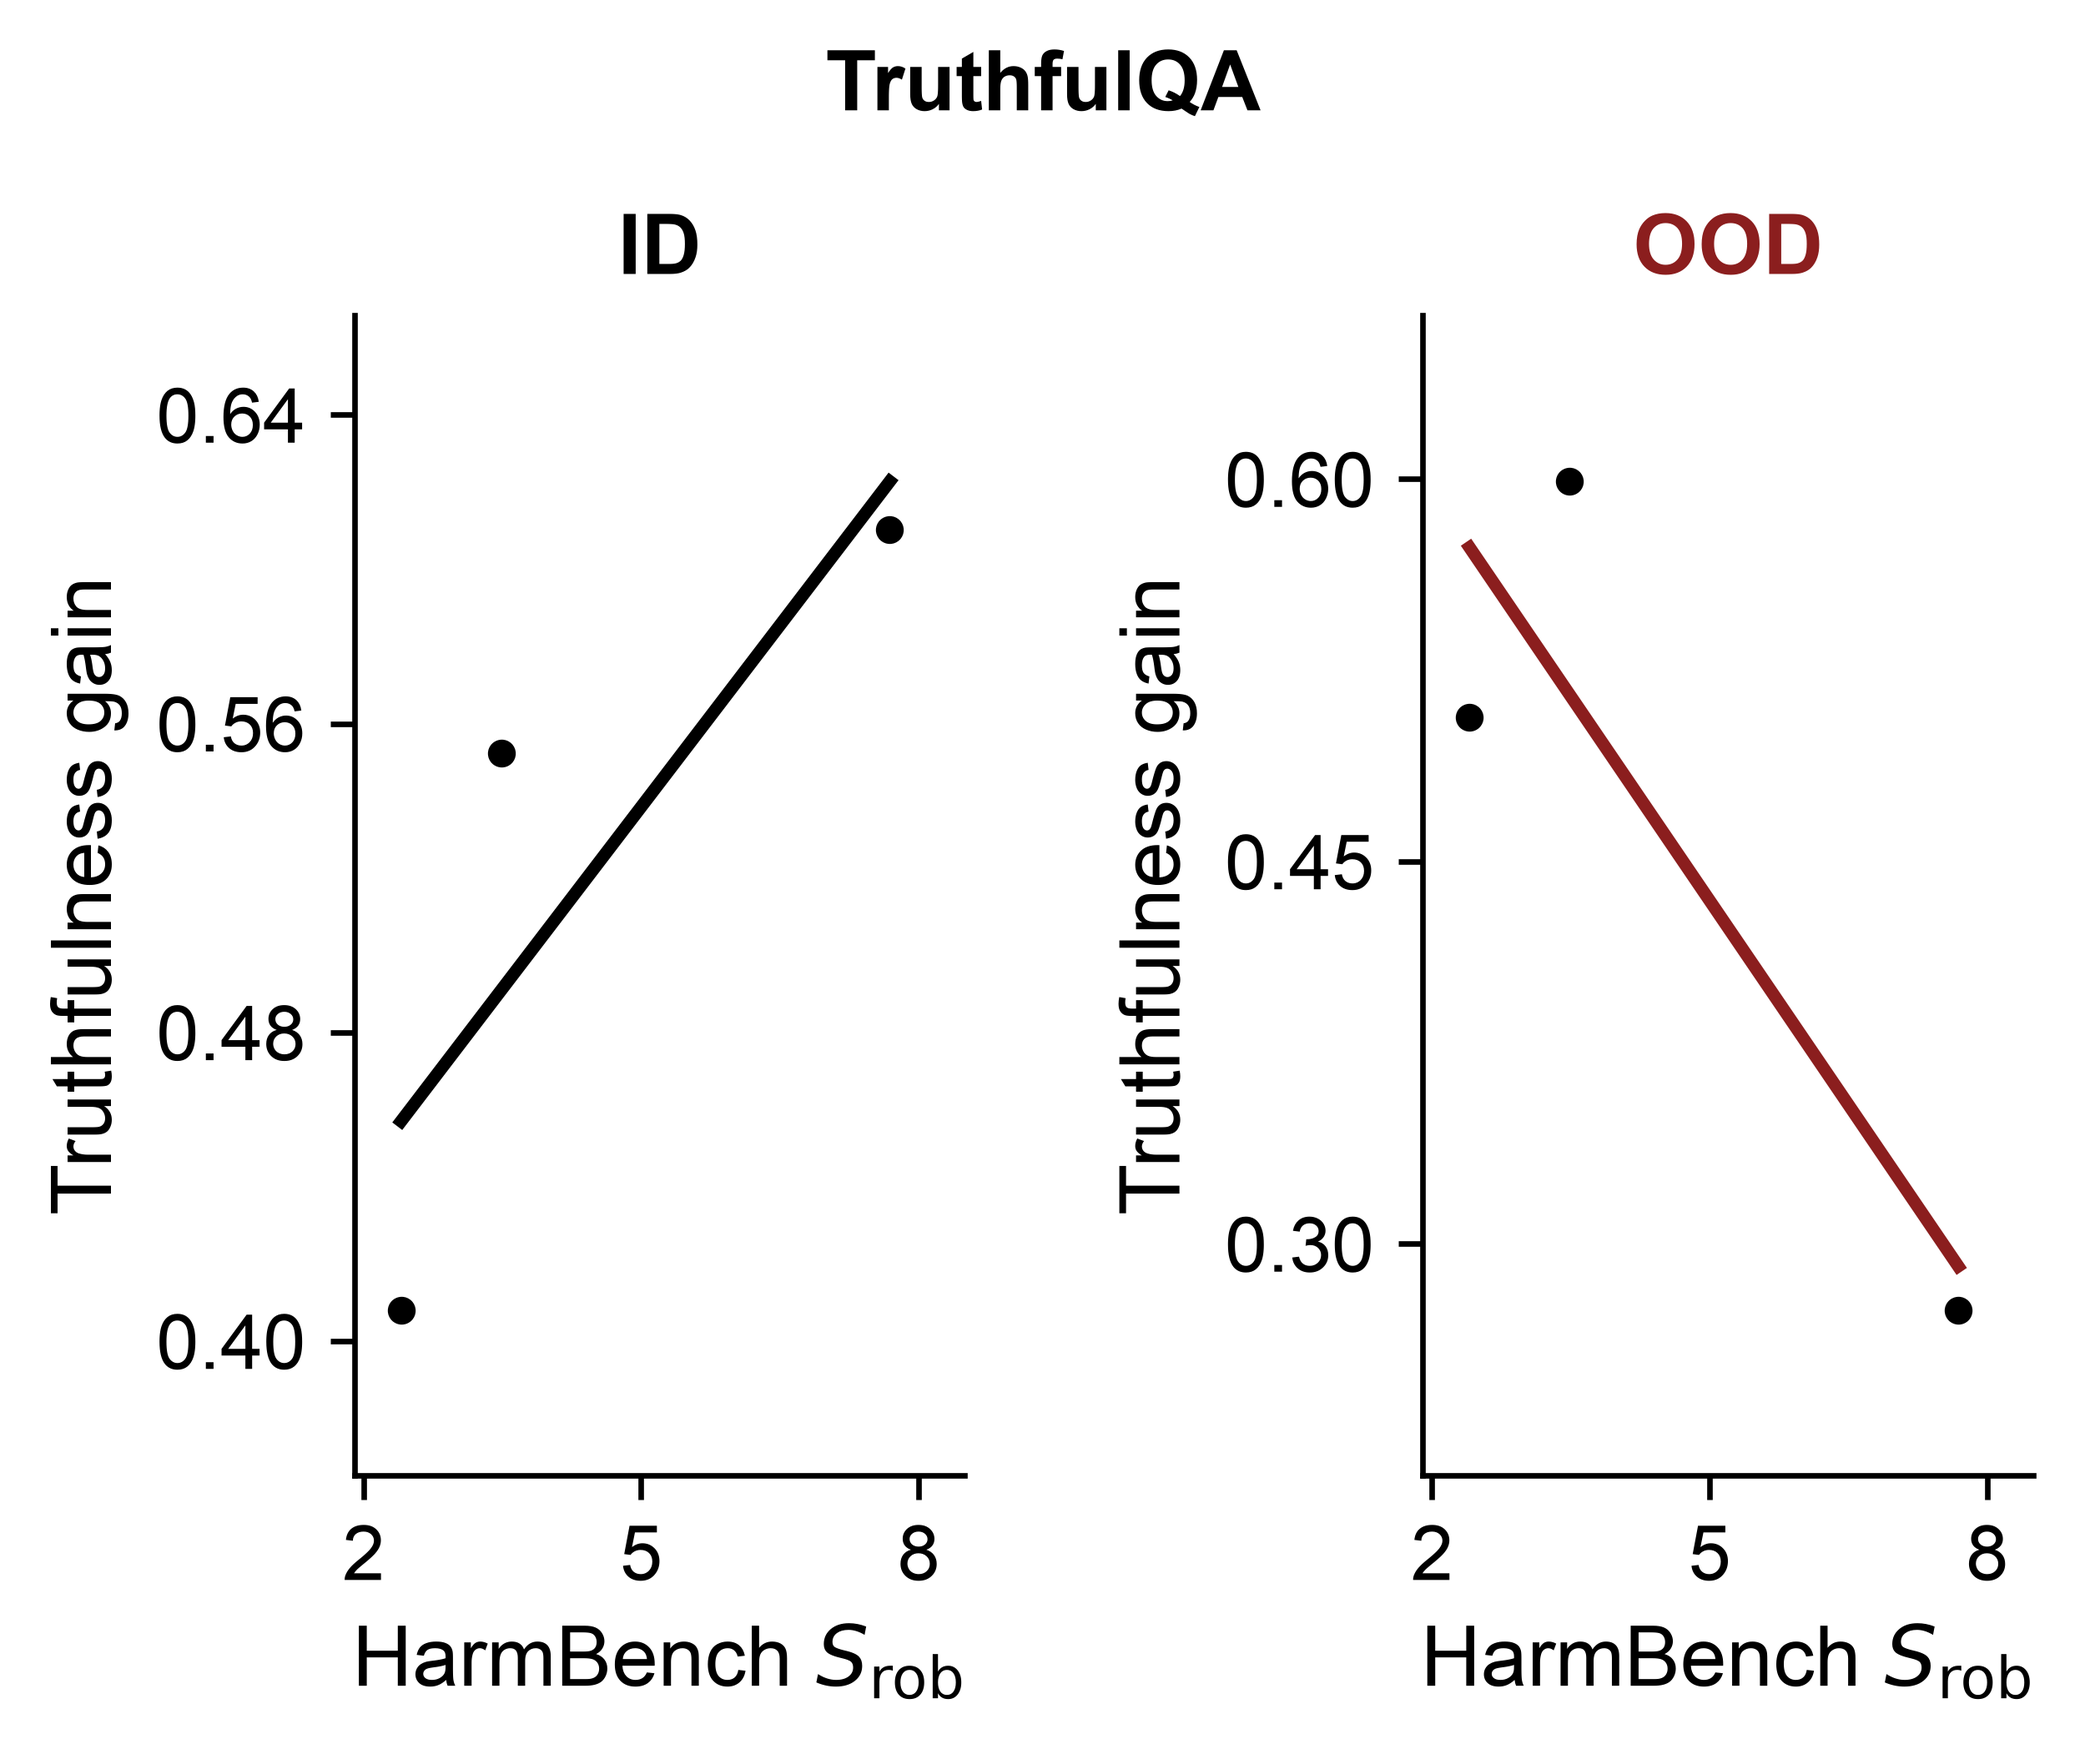
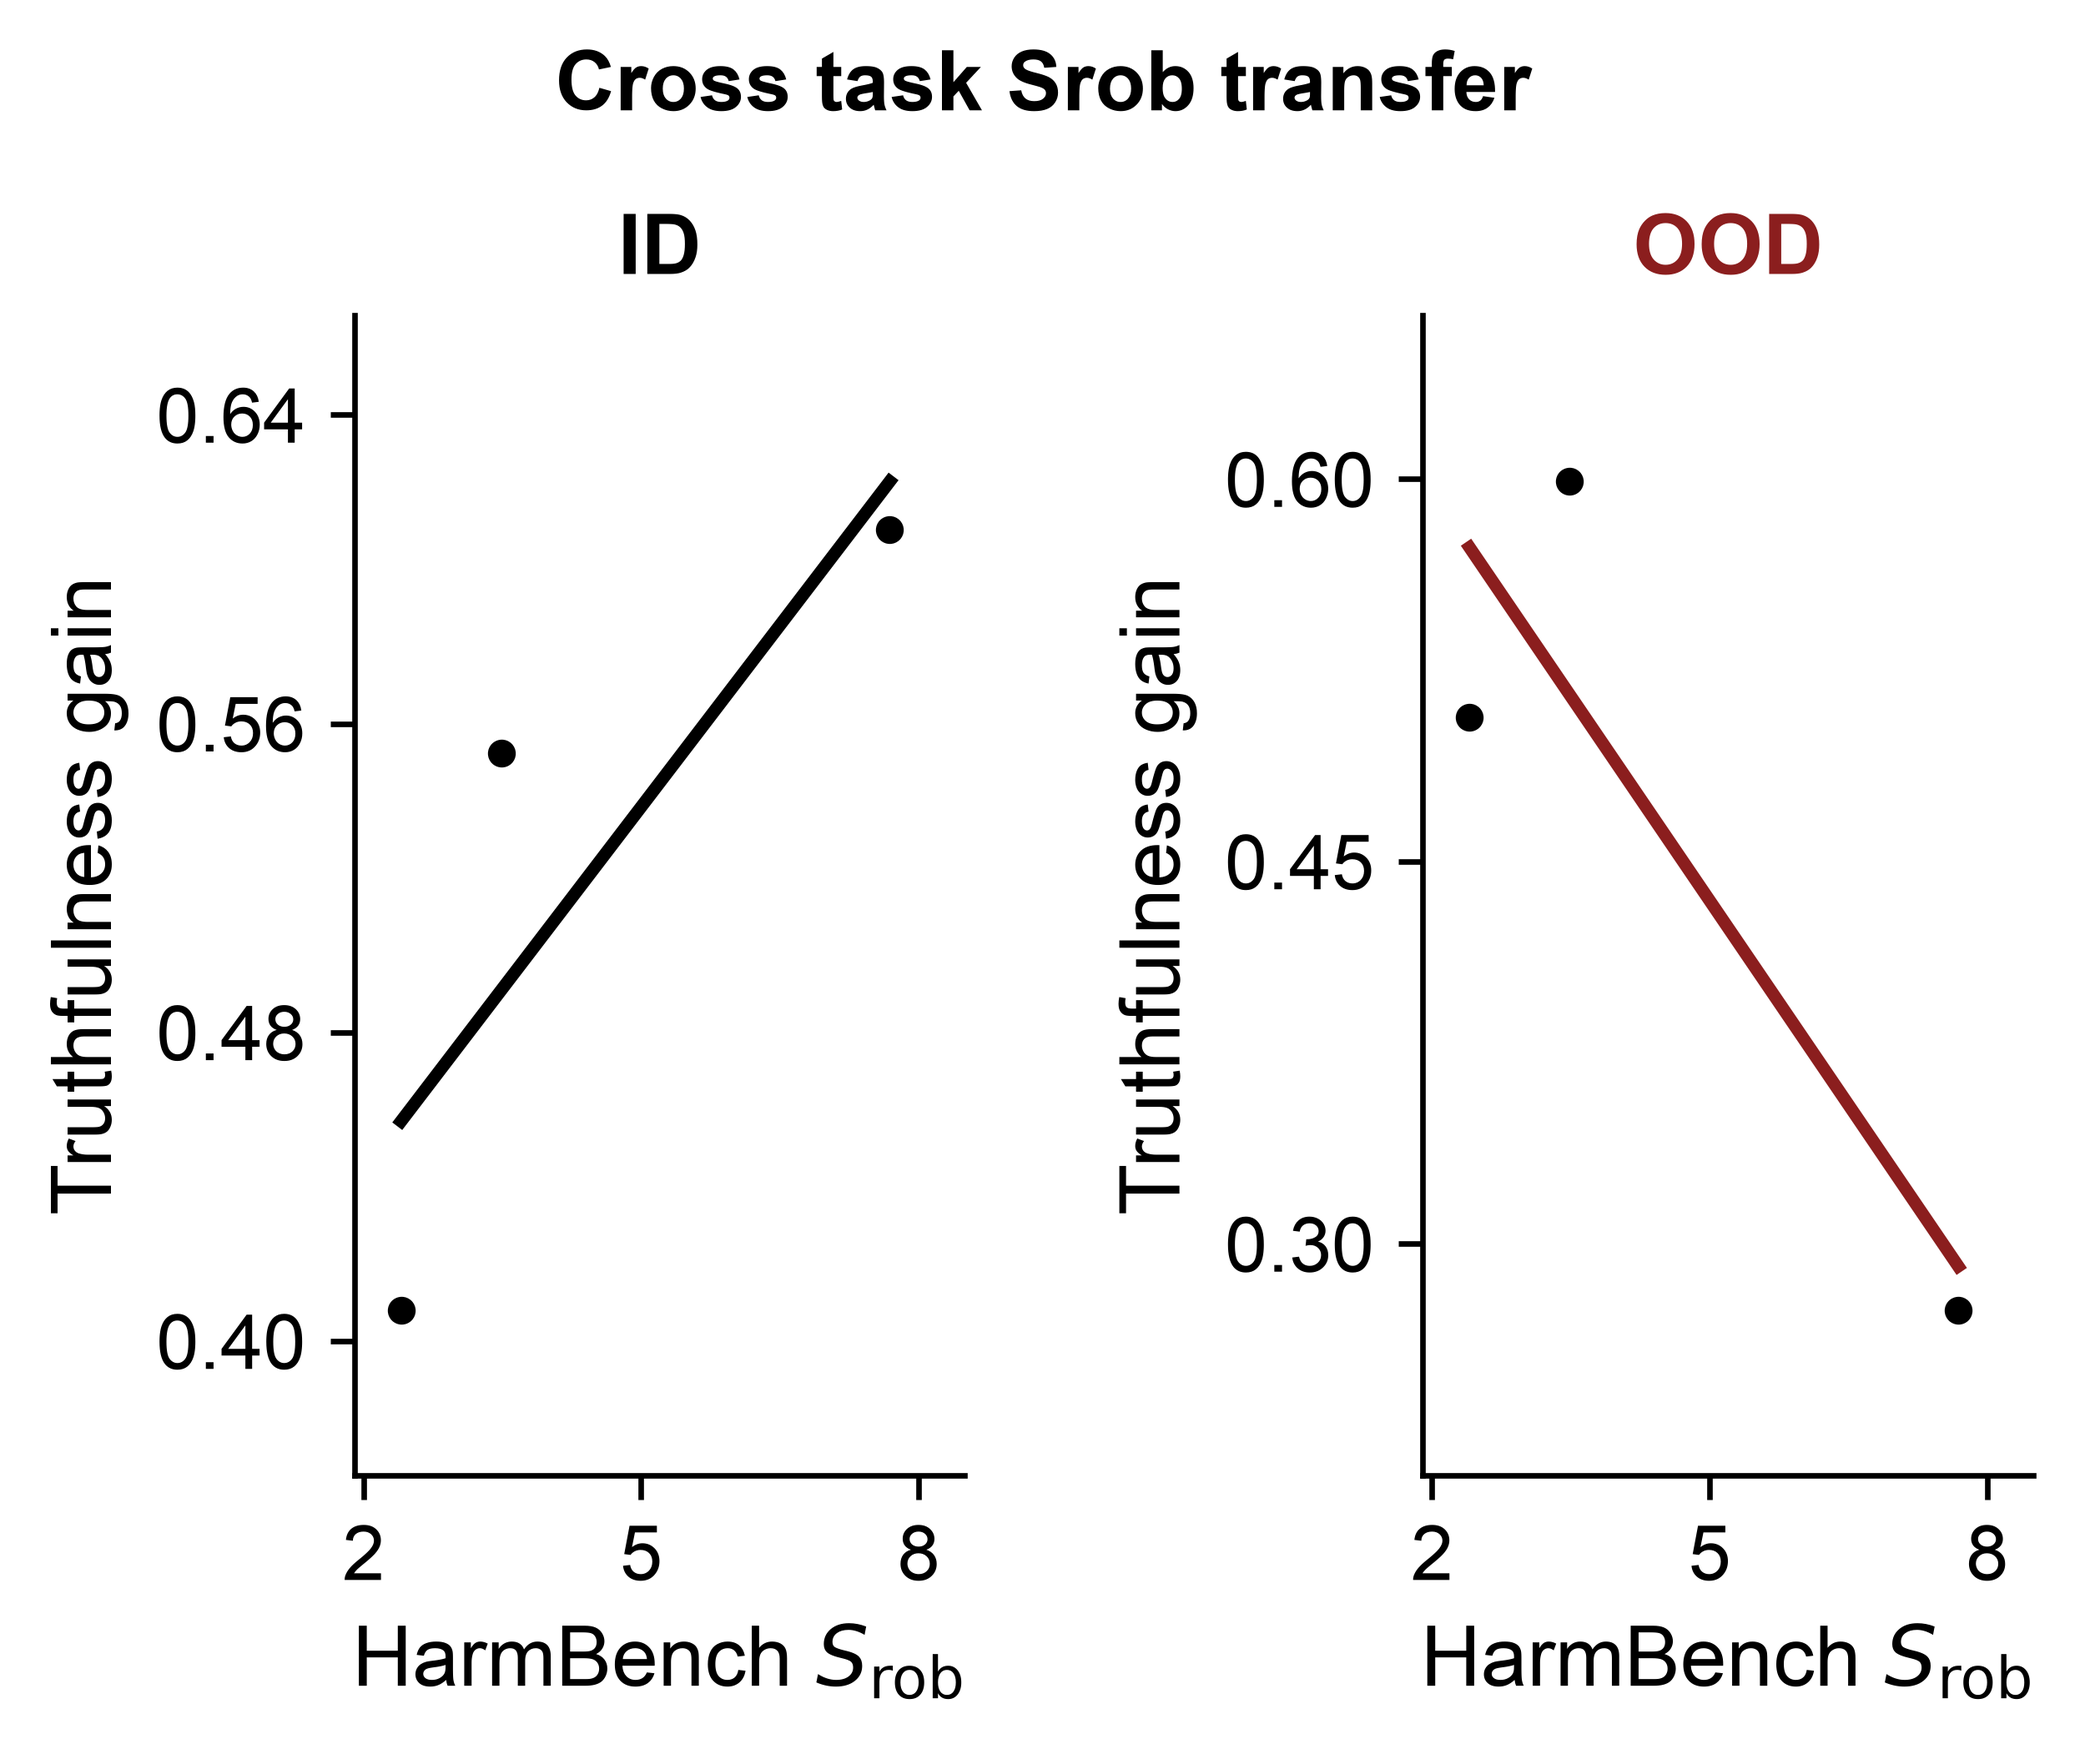
fig: title cross-task Srob transfer comparison

Changed region(s): [[0.2497, 0.0309, 0.7491, 0.0618]]

diff --git a/parking/rudra_rebuttal_cross_task_srob/plot_cross_task.py b/parking/rudra_rebuttal_cross_task_srob/plot_cross_task.py
@@ -59,7 +59,7 @@ def main() -> None:
         ax.title.set_fontweight("bold")
         ax.yaxis.set_major_locator(plt.MaxNLocator(4))
         ax.margins(y=0.20)
-    fig.suptitle("TruthfulQA", fontsize=12, fontweight="bold", y=0.98)
+    fig.suptitle("Cross task Srob transfer", fontsize=12, fontweight="bold", y=0.98)
     fig.subplots_adjust(left=0.18, right=0.96, bottom=0.23, top=0.84, wspace=0.75)
     plots, tables = UNIT / "plots", UNIT / "tables"
     plots.mkdir(exist_ok=True)
